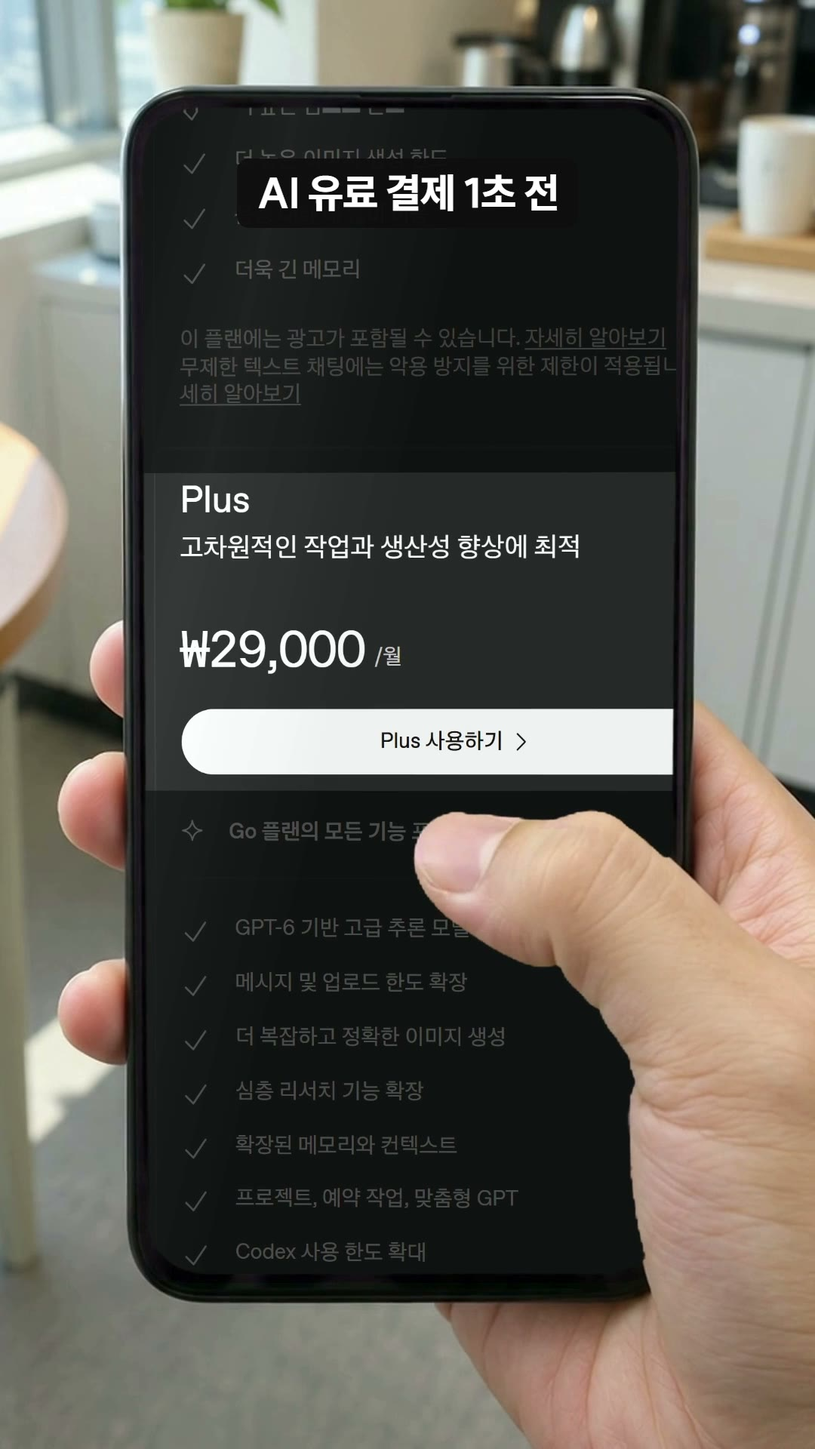
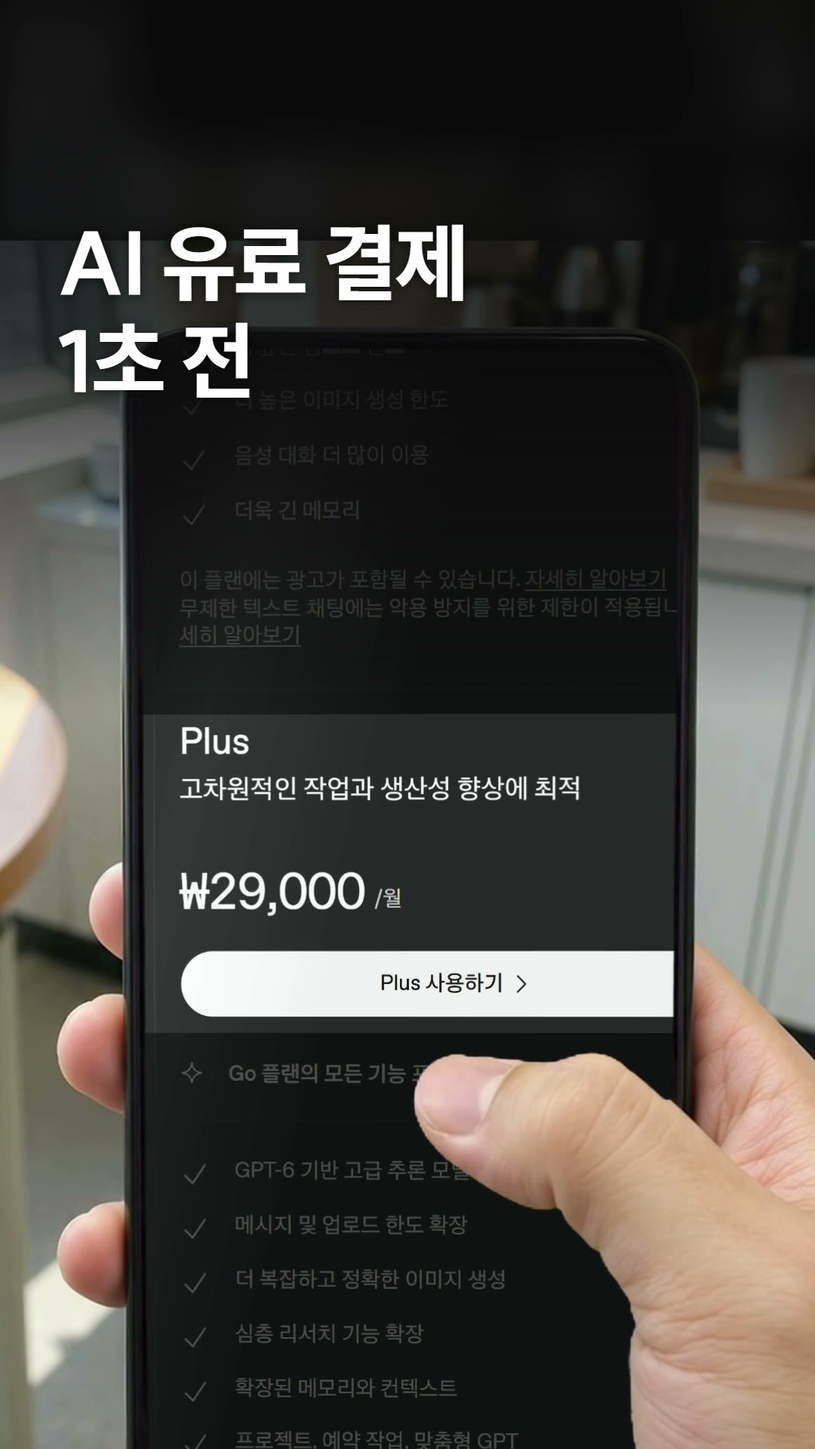
feat(synkbrief B24 v2 · 화면 결 · 11-03 밤): 유호님 「예약되어있던 게시물 … 최악수준 … 누가봐도 ai 슬롭」 → 「지금 새로 적용해서 시안 만들어줄래? 제작까지 해서 오늘 업로드까지」
같은 말 · 소리 · 판 조각에 겉만 다시 입힘(FilmV2.tsx · 판들_v2.py): 번호 동그라미 · 노란 메모 · 초록 띠 · 빨간 상자 · 꼬리표 · 말풍선 · 판 안 동그라미 · 형광을 빼고 원래 장면 그대로 + 위 그늘 큰 글자 · 검정 · 흰 + 버터 한 곳(34만 8천 원) · SUIT 하나. 맹검 미학(Fable 둘) 새 판 4 대 2 · 옛 판 「슬롭」, 이해 시험 v2-3 4 · 4 · 4 통과, 올리기 전 검사 고칠 것 0. 슬롯 11-06(금) 21:00 · 블로그 21:10. synkbrief 장부 「화면 결」 · 제작 절차 · 맹검 미학 관문, 결정 · 트랙

diff --git a/docs/마케팅/synkbrief_요금제질문셋_20261103/remotion/src/FilmV2.tsx b/docs/마케팅/synkbrief_요금제질문셋_20261103/remotion/src/FilmV2.tsx
@@ -1,0 +1,189 @@
+// synkbrief B24 v2(11-03 밤) — 같은 말 · 같은 소리 · 같은 판 조각에 겉만 「화면 결」로 다시 입힌 판.
+// 유호님 11-03 「누가봐도 ai 슬롭」 — 옛 판의 꼬리표 · 번호 동그라미 · 노란 메모 · 초록 띠 · 빨간 상자 · 흰 말풍선을 모두 뺐다.
+// 결은 yuhobuilds 장부 「화면 결」과 같다: 원래 장면 그대로(판을 아래로 내리고 위는 같은 장면을 뒤집어 흐리게) · 위 그늘 위 큰 글자가 곧 말 ·
+// 검정 · 흰 + 버터 한 곳(돈 — 34만 8천 원) · 줄 단위 올림 · 박 위 컷 + 살짝 당김 · SUIT 하나 · 안전선(x 65~920 · y 269~1428) 안 글자 · 마침표 없음.
+import React from 'react';
+import { AbsoluteFill, Audio, Easing, Img, interpolate, OffthreadVideo, Sequence, staticFile, useCurrentFrame } from 'remotion';
+import { KO } from './lib/fonts';
+import PLACE from './vo-place.json';
+import FACE from './face-map.json';
+import { S, TOTAL } from './Film';
+
+const clamp = { extrapolateLeft: 'clamp', extrapolateRight: 'clamp' } as const;
+const EASE_OUT = Easing.bezier(0.16, 1, 0.3, 1);
+const sec = (s: number) => Math.round(s * 30);
+const vo = (id: string) => (PLACE as { id: string; at: number }[]).find((c) => c.id === id)!.at / 30;
+const seq = (from: number, to: number, el: React.ReactNode) => <Sequence from={sec(from)} durationInFrames={sec(to) - sec(from)}>{el}</Sequence>;
+
+const BUTTER = '#F5C445';
+const GREY = '#A3A3A3';
+const X = 74;
+const TOP = 284;
+
+// 판을 D만큼 내리고, 빈 위쪽은 같은 장면 윗부분을 뒤집어 흐리게 채운다. 컷이 들어올 때 1.035배에서 내려앉고, 그 뒤로 아주 천천히 다가간다.
+const Lowered: React.FC<{ d?: number; children: React.ReactNode }> = ({ d = 320, children }) => {
+  const f = useCurrentFrame();
+  const z = interpolate(f, [0, 8], [1.035, 1], { ...clamp, easing: EASE_OUT }) + f * 0.00012;
+  return (
+    <AbsoluteFill style={{ overflow: 'hidden', background: '#0b0b0b' }}>
+      <div style={{ position: 'absolute', inset: 0, transform: `translateY(${d}px) scaleY(-1)`, transformOrigin: '50% 0%', filter: 'blur(26px) brightness(0.55)' }}>{children}</div>
+      <div style={{ position: 'absolute', inset: 0, transform: `translateY(${d}px) scale(${z})`, transformOrigin: '50% 30%' }}>{children}</div>
+    </AbsoluteFill>
+  );
+};
+
+const PlateV: React.FC<{ src: string; dir?: string; start?: number; rate?: number; z?: number; origin?: string }> = ({ src, dir = 'plate', start = 0, rate = 1, z = 1, origin = '540px 560px' }) => (
+  <OffthreadVideo muted src={staticFile(`${dir}/${src}.mp4`)} startFrom={sec(start)} playbackRate={rate} style={{ width: 1080, height: 1920, transformOrigin: origin, transform: `scale(${z})` }} />
+);
+const Plate: React.FC<{ src: string; dir?: string; d?: number }> = ({ src, dir, d }) => <Lowered d={d}><PlateV src={src} dir={dir} /></Lowered>;
+
+// 위 그늘 — 글자 자리만 어둡게
+const Shade: React.FC = () => (
+  <AbsoluteFill style={{ background: 'linear-gradient(to bottom, rgba(10,10,10,0.92) 0px, rgba(10,10,10,0.8) 470px, rgba(10,10,10,0.34) 760px, rgba(10,10,10,0) 940px)' }} />
+);
+
+// 큰 글자가 곧 말 — 줄마다 28px 아래에서 올라오며 나타난다(줄 사이 3프레임). me = 「나」의 말(회색)
+// still = 첫 프레임부터 다 보임(0초 훅 · 표지)
+const T: React.FC<{ lines: React.ReactNode[]; from: number; to: number; me?: boolean; size?: number; meta?: string; below?: React.ReactNode; still?: boolean }> = ({ lines, from, to, me, size = 96, meta, below, still }) => {
+  const f = useCurrentFrame();
+  const a = sec(from), b = sec(to);
+  if (f < a || f >= b) return null;
+  const out = interpolate(f, [b - 3, b], [1, 0], clamp);
+  const up = (k: number) => {
+    const p = still ? 1 : interpolate(f, [a + k * 3, a + k * 3 + 9], [0, 1], { ...clamp, easing: EASE_OUT });
+    return { opacity: p * out, transform: `translateY(${(1 - p) * 28}px)` };
+  };
+  return (
+    <div style={{ position: 'absolute', left: X, width: 846, top: TOP, fontFamily: KO, textShadow: '0 2px 14px rgba(0,0,0,0.55)' }}>
+      {meta ? <div style={{ ...up(0), fontWeight: 600, fontSize: 32, letterSpacing: -0.5, color: GREY, marginBottom: 18 }}>{meta}</div> : null}
+      {lines.map((l, i) => (
+        <div key={i} style={{ ...up(i + (meta ? 1 : 0)), fontWeight: me ? 700 : 800, fontSize: size, lineHeight: 1.16, letterSpacing: -2.6, color: me ? GREY : '#fff', wordBreak: 'keep-all' }}>{l}</div>
+      ))}
+      {below ? <div style={{ ...up(lines.length + 1), marginTop: 34 }}>{below}</div> : null}
+    </div>
+  );
+};
+
+// 실제 화면 조각 — 꼬리표 대신 위에 작은 회색 출처 한 줄
+const Shot: React.FC<{ src: string; w: number; h: number; note: string }> = ({ src, w, h, note }) => (
+  <div>
+    <div style={{ fontFamily: KO, fontWeight: 600, fontSize: 28, color: GREY, marginBottom: 12, letterSpacing: -0.4 }}>{note}</div>
+    <div style={{ borderRadius: 14, overflow: 'hidden', border: '1px solid rgba(255,255,255,0.14)', width: 846 }}>
+      <Img src={staticFile(`img/${src}.png`)} style={{ display: 'block', width: 846, height: Math.round((h * 846) / w) }} />
+    </div>
+  </div>
+);
+
+// 공식 도움말 원문 한 줄 — 흰 바탕 캡처 띠 대신 글로(값 · 글은 원문 그대로)
+const Quote: React.FC<{ text: string; note: string }> = ({ text, note }) => (
+  <div style={{ fontFamily: KO, borderLeft: '3px solid rgba(255,255,255,0.5)', paddingLeft: 22 }}>
+    <div style={{ fontWeight: 600, fontSize: 28, color: GREY, marginBottom: 8, letterSpacing: -0.4 }}>{note}</div>
+    <div style={{ fontWeight: 500, fontSize: 40, color: '#EDEDED', letterSpacing: -0.8, lineHeight: 1.3 }}>{text}</div>
+  </div>
+);
+
+// 줄로만 늘어놓는 표 — 셋을 다 물은 뒤의 물음 · 답, 무료로 되는 것 · 한도 있는 것
+const Rows: React.FC<{ rows: string[][]; wide?: boolean }> = ({ rows, wide }) => (
+  <div style={{ fontFamily: KO }}>
+    {rows.map(([q, a]) => (
+      <div key={q} style={{ display: 'flex', gap: 28, fontSize: 40, lineHeight: 1.6, letterSpacing: -0.8 }}>
+        <span style={{ width: wide ? 360 : 250, fontWeight: 700, color: '#fff' }}>{q}</span>
+        <span style={{ fontWeight: 600, color: '#CFCFCF' }}>{a}</span>
+      </div>
+    ))}
+  </div>
+);
+const Tally: React.FC = () => <Rows rows={[['한도 알림', '아니'], ['파일 · 사진', '가끔'], ['긴 문서', '아니']]} />;
+
+// 작은 표시는 한 규칙 — 30px · 아래 안전선 줄, 알림은 왼쪽 · 브랜드는 오른쪽
+const Small: React.FC<{ text: string; from: number; to: number; right?: boolean }> = ({ text, from, to, right }) => {
+  const f = useCurrentFrame();
+  if (f < sec(from) || f >= sec(to)) return null;
+  const pos = right ? { right: 1080 - 920 } : { left: X };
+  return <div style={{ position: 'absolute', ...pos, top: 1372, fontFamily: KO, fontWeight: 700, fontSize: 30, color: 'rgba(255,255,255,0.86)', letterSpacing: -0.4, textShadow: '0 1px 10px rgba(0,0,0,0.75)' }}>{text}</div>;
+};
+
+const Sfx: React.FC<{ at: number; src: string; v?: number }> = ({ at, src, v = 0.5 }) => (
+  <Sequence from={sec(at)}><Audio src={staticFile(`sfx/${src}.wav`)} volume={v * 0.8} /></Sequence>
+);
+
+// 같은 정면 컷이 이어진다는 맹검 지적(11-03) — 질문마다 거리를 바꾼다(조각 번호 → 키움 · 중심)
+const FRAME: Record<number, [number, string]> = {
+  2: [1.16, '540px 520px'], 3: [1.16, '540px 520px'],
+  7: [1.3, '540px 500px'],
+  8: [1.12, '700px 620px'], 9: [1.12, '700px 620px'],
+};
+const FacePieces: React.FC = () => (
+  <>
+    {(FACE as { src: string; at: number; to: number; start: number; rate: number; z?: number }[]).map((p, i) => (
+      <React.Fragment key={i}>{seq(p.at, p.to, <Lowered><PlateV src={p.src} start={p.start} rate={p.rate} z={FRAME[i]?.[0] ?? p.z} origin={FRAME[i]?.[1]} /></Lowered>)}</React.Fragment>
+    ))}
+  </>
+);
+
+export const FilmV2: React.FC = () => {
+  const f = useCurrentFrame();
+  const bgmV = interpolate(f, [sec(S.q - 0.2), sec(S.q + 0.2), sec(S.slap2) - 1, sec(S.slap2)], [0, 0.16, 0.16, 0], clamp);
+  return (
+    <AbsoluteFill style={{ background: '#0b0b0b' }}>
+      {seq(0, S.faceA, <Plate src="pov_A" />)}
+      <FacePieces />
+      {seq(S.chat, S.laugh, <Plate src="pov_chat" />)}
+      {seq(S.povFile, S.q3, <Plate src="pov_file" dir="plate2" />)}
+      {seq(S.povFree, S.n08, <Plate src="pov_free" dir="plate2" />)}
+      {seq(S.strike, S.creep, <Plate src="pov_strike" dir="plate2" />)}
+      {seq(S.creep, S.faceEnd, <Plate src="pov_end" dir="plate2" />)}
+      {seq(S.lunch, S.total, <Lowered d={220}><PlateV src="lunch" start={0.3} z={1.22} origin="250px 1700px" /></Lowered>)}
+      <Shade />
+
+      <T lines={['AI 유료 결제', '1초 전']} from={0} to={S.slap} size={112} still />
+      <T lines={['잠깐, 그거', '어디 쓰려고?']} from={vo('n01')} to={vo('p01')} />
+      <T lines={['다들 쓴다길래…']} from={vo('p01')} to={S.faceB} me />
+      <T lines={['다들', '뭐에 쓰는데?']} from={S.faceB} to={vo('p06')} />
+      <T lines={['…몰라']} from={vo('p06')} to={S.chat} me />
+      <T lines={['어제 뭐', '물어봤어?']} from={S.chat} to={vo('p07')} />
+      <T lines={['…오늘 점심', '뭐 먹지']} from={vo('p07')} to={S.laugh} me />
+
+      <T meta="질문 1 / 3" lines={['한도 다 썼다는', '알림, 본 적 있어?']} from={S.q} to={vo('p02')} size={88}
+        below={<Quote text="파일 · 사진 · 음성은 쓰는 양에 한도가 있어요" note="ChatGPT 도움말 「한도에 도달하면 ChatGPT에서 알려드립니다」" />} />
+      <T lines={['아니']} from={vo('p02')} to={vo('n04')} me />
+      <T meta="질문 2 / 3" lines={['파일이나 사진,', '매일 올려?']} from={vo('n04')} to={S.povFile} size={88}
+        below={<Shot src="card_file" w={1098} h={144} note="ChatGPT 무료 요금제 · 실제 화면" />} />
+      <T lines={['어… 가끔?']} from={vo('p03')} to={vo('n11')} me />
+      <T lines={['가끔이면 됐고']} from={vo('n11')} to={S.q3} />
+      <T meta="질문 3 / 3" lines={['긴 문서,', '통째로 넣어?']} from={S.q3} to={vo('p04')} size={88} />
+      <T lines={['…아니']} from={vo('p04')} to={S.free} me />
+      <T lines={['그럼 무료로', '충분해']} from={S.free} to={S.povFree} below={<Tally />} />
+      <T lines={['진짜?']} from={vo('p08')} to={vo('n07')} me />
+      <T lines={['챗GPT는 글로만', '묻는 건,', '무료도 무제한이야']} from={vo('n07')} to={S.n08} size={84}
+        below={<Rows rows={[['글로 묻기', '무제한'], ['파일 · 사진 · 음성', '한도 있음']]} wide />} />
+      <T lines={['하나라도', "'예'면,"]} from={S.n08} to={S.pay2} />
+      <T lines={['그때 결제해']} from={S.pay2} to={S.strike} />
+      <T meta="₩29,000 × 12달" lines={['1년이면', <span style={{ color: BUTTER }}>34만 8천 원</span>]} from={S.strike + 0.35} to={S.creep + 0.3} size={112} />
+      <T lines={['그래도 한 달만…']} from={vo('p05')} to={S.slap2} me />
+      <T lines={['그 돈으로', '점심이나 사']} from={S.faceEnd} to={S.total} size={104} />
+
+      <Small text="AI로 만든 재연이에요" from={S.faceA} to={S.faceB} />
+      <Small text="SYNK 브리핑" from={S.total - 2.6} to={S.total} right />
+
+      {/* 소리 — 옛 판과 같다 */}
+      <Audio src={staticFile('sfx/room.wav')} volume={(fr: number) => 0.35 * interpolate(fr, [0, 6, sec(S.q - 0.1), sec(S.q + 0.2)], [0.5, 1, 1, 0], clamp)} />
+      <Sfx at={0.05} src="tick" v={0.25} />
+      <Sfx at={0.55} src="tick" v={0.25} />
+      <Sfx at={1.05} src="tick" v={0.25} />
+      <Sequence from={sec(S.q - 0.2)}><Audio src={staticFile('bgm.wav')} volume={() => bgmV * 0.8} /></Sequence>
+      <Sequence from={sec(S.lunch)}><Audio src={staticFile('plate/lunch_a.wav')} startFrom={sec(0.3)} volume={0.9} /></Sequence>
+      <Sequence from={sec(S.lunch)}><Audio src={staticFile('bgm.wav')} startFrom={sec(19)} volume={(fr: number) => 0.13 * interpolate(fr, [0, 4, 36, 44], [0, 1, 1, 0], clamp)} /></Sequence>
+      <Audio src={staticFile('plate/V1_a.wav')} startFrom={sec(1.1)} endAt={sec(5.46)} volume={0.9} />
+      <Sequence from={sec(S.slap2 - 2.01)}><Audio src={staticFile('plate/V1_a.wav')} startFrom={sec(0.55)} endAt={sec(3.2)} volume={0.9} /></Sequence>
+      <Sfx at={S.slap - 0.01} src="hand" v={0.45} />
+      <Sfx at={S.slap2 - 0.01} src="hand" v={0.55} />
+      {(PLACE as { id: string; at: number }[]).map((c) => (
+        <Sequence key={c.id} from={c.at}><Audio src={staticFile(`vo/${c.id}.wav`)} volume={0.8} /></Sequence>
+      ))}
+      <Sfx at={S.free} src="tok" v={0.35} />
+    </AbsoluteFill>
+  );
+};
+
+export { TOTAL };

diff --git a/docs/마케팅/synkbrief_요금제질문셋_20261103/remotion/src/Root.tsx b/docs/마케팅/synkbrief_요금제질문셋_20261103/remotion/src/Root.tsx
@@ -1,10 +1,13 @@
 import { Composition } from 'remotion';
 import './lib/fonts';
 import { Film, TOTAL } from './Film';
+import { FilmV2 } from './FilmV2';
 
 export const RemotionRoot: React.FC = () => (
   <>
     {/* 본편 하나(인스타 · 유튜브 · 틱톡 같은 영상 — 끝 말이 캡션 · DM · 고정 댓글을 가리키지 않는다) */}
     <Composition id="b24" component={Film} durationInFrames={TOTAL} fps={30} width={1080} height={1920} />
+    {/* v2(11-03 밤 · 화면 결) — 같은 말 · 소리, 겉만 다시 */}
+    <Composition id="b24v2" component={FilmV2} durationInFrames={TOTAL} fps={30} width={1080} height={1920} />
   </>
 );

diff --git a/docs/마케팅/synkbrief_요금제질문셋_20261103/합성/판들_v2.py b/docs/마케팅/synkbrief_요금제질문셋_20261103/합성/판들_v2.py
@@ -1,0 +1,34 @@
+# B24 v2(화면 결 · 11-03 밤) — 판 안에 굽던 빨간 동그라미 · 노랑/초록 형광을 뺀다. 짚는 줄은 그 줄 밖을 어둡게 누르는 것으로만 보인다.
+# 판들.py와 같은 화면 · 같은 V1 조각 · 같은 줌이고, 표시만 다르다. 나가는 곳은 remotion/public/plate2.
+import sys
+sys.path.insert(0, '합성')
+from 판굽기 import 굽기, 읽기
+import numpy as np
+
+
+def 어둡게(im, y0, y1, 위까지=True, k=0.42):
+    out = im.astype(np.float32).copy()
+    if 위까지: out[:y0] *= k
+    out[y1:] *= k
+    return out.astype(np.uint8)
+
+
+폴더 = 'remotion/public/plate2'
+플러스 = 어둡게(읽기('화면/챗GPT_Plus.png')[192:192 + 2237, 40:40 + 1032], 690, 1300, k=0.28)
+파일 = 읽기('화면/챗GPT_표_파일.png')[283:283 + 2071, 90:90 + 955]
+무료 = 읽기('화면/챗GPT_Free목록.png')[192:192 + 1645, 60:60 + 759]
+파일어둠 = 어둡게(파일, 683 - 58, 683 + 58, k=0.22)
+무료어둠 = 어둡게(무료, 531 - 46, 531 + 46, 위까지=False, k=0.3)
+# ₩29,000 줄만 남기고 더 누른다(동그라미 대신)
+값만 = 어둡게(읽기('화면/챗GPT_Plus.png')[192:192 + 2237, 40:40 + 1032], 930, 1130, k=0.5)  # 맹검 지적(「폰이 탁한 검정 덩어리」)으로 0.2 → 0.5
+
+가까이 = lambda t: (1.22 + 0.006 * t, 522, 830)
+넓게 = lambda t: (1.12, 522, 985)
+쉼 = [(8.7, 9.9), (9.9, 8.7), (8.7, 9.9)]
+이름들 = sys.argv[1:]
+고르기 = lambda 이름: not 이름들 or 이름 in 이름들
+
+if 고르기('pov_file'): 굽기('pov_file', [(8.7, 9.9), (9.9, 9.3)], lambda t: 파일어둠, 줌=가까이, 폴더=폴더)
+if 고르기('pov_free'): 굽기('pov_free', 쉼, lambda t: 무료어둠, 줌=가까이, 폴더=폴더)
+if 고르기('pov_strike'): 굽기('pov_strike', [(8.7, 9.9), (9.9, 9.3)], lambda t: 값만, 줌=lambda t: (1.45 + 0.03 * t, 460, 1095), 폴더=폴더)
+if 고르기('pov_end'): 굽기('pov_end', [(0.55, 2.70)], lambda t: 플러스, 줌=넓게, 폴더=폴더)

diff --git a/docs/마케팅/기획장부/synkbrief.md b/docs/마케팅/기획장부/synkbrief.md
@@ -10,6 +10,7 @@
 - **화면:** 실제 화면 녹화와 실제 전후 결과(메일 · 계정 · 남의 이름은 가림). 글자 카드만으로 만들지 않는다. 유호님 계정의 설정을 바꿔야 보이는 화면(보안 · PIN 등)은 녹화하지 않는다.
 - **사실:** 공식 도움말 · 요금은 원문을 다시 열어 확인하고 읽은 날을 남긴다. 약관에 걸릴 길(다계정 우회 등)은 권하지 않는다.
 - **편 꼴(10-27, 10-28 고침):** [제작 절차 「synkbrief · yuhobuilds 편」](제작절차.md) 넷 — 결과 화면 먼저 · 영상엔 결과만(설명 · 설정 경로 · 주의는 캡션 · 고정 댓글) · 실제 화면은 한 컷 그대로 보인 뒤 크게 다시 짜기 · 검증된 틀 주 1편. 모든 편이 청금석 파란 카드 · 같은 배경음 · 끝 「여러분은~? / 요청문은 캡션에」였고 인스타 조회가 110~140에 묶였다(10-28 점검) — 무대 · 배경음 · 끝 카드는 지난 두 편과 다르게 고른다.
+- <a id="screen-look-20261103"></a>**화면 결(11-03 유호님 — 예약돼 있던 B23 · B24를 보시고 「최악 수준 · 누가 봐도 AI 슬롭」 → 「지금 새로 적용해서」):** 두 편 다 실제 AI 화면 위에 빨간 꼬리표 · 노랑/초록 형광 · 취소선 · X 격자 · 번호 동그라미 · 노란 메모 · 초록 띠 · 빨간 상자 · 흰 말풍선을 겹친 카드뉴스 틀이었다. synkbrief도 [yuhobuilds 「화면 결」](yuhobuilds.md#presenter-look-20261103)과 같은 결로 만든다 — ① 원래 장면 그대로: 판(실제 화면 · 재연 영상)을 아래로 내리고 빈 위쪽은 같은 장면 윗부분을 뒤집어 흐리게 채운 뒤 위 그늘 ② 검정 · 흰 + 버터 #F5C445 한 곳(그 편에서 가장 큰 숫자 · 낱말 하나) ③ 큰 글자가 곧 말(왼쪽 정렬 x 74 · y 284부터, 84~112px, 줄 단위 28px 올림 + 불투명도), 두 사람 말은 흰 · 회색으로만 가른다 ④ 박 위 컷 + 들어올 때 1.035배에서 내려앉음 · 판은 아주 천천히 다가감 ⑤ SUIT 하나 ⑥ 실제 화면은 꼬리표 대신 위에 작은 회색 출처 한 줄, 짚는 줄은 형광 · 동그라미 대신 그 줄 밖을 어둡게 누름 ⑦ 화면 글자에 마침표 없음 · 안전선 안. **빼는 것:** 색 꼬리표 · 스티커 · 번호 동그라미 · 색 띠 · 색 상자 · X 격자 · 말풍선 · 둘 넘는 색. **관문에 더함:** 보이거나 걸기 전 맹검 미학 심사(새 판 vs 비교 판 장면 묶음을 맥락 없는 Fable 둘에게 순서를 바꿔 「어느 쪽이 더 세련됐나 · 어디가 싸 보이나 · AI 슬롭으로 보이나」) — 새 판이 둘 모두에게 지거나 「슬롭」이 하나라도 나오면 고쳐서 다시. 첫 적용: B24 v2(11-03 밤).
 - **오마주 — 우리 색(10-28, [제작 절차 「오마주」](제작절차.md#homage)):** 원본의 뼈대(훅 자리 · 칸 수 · 박자 · 반전 · 끝 장치)는 지키고, 화면은 우리 실제 AI 화면과 실제 결과(원본의 결과 칸 자리에), 목소리는 범수, 브랜드 표시는 「SYNK 브리핑」 이름표와 색 한 점만 바꾼다. 무대 · 배경음 · 끝은 원본을 따르니 청금석 파란 카드 · 같은 배경음 · 같은 끝 문구를 되풀이하지 않는다. 남는 것은 따라 할 AI 팁 하나(복붙문은 캡션 · 고정 댓글). 같은 분야 원본은 synkbrief 시드의 튄 편(예: 라이프해커 자청 「클로드코드 사용법」 86만 · ×99), 형식만 원본은 직장 · 자영업 공감 콩트 · 「이렇게 하지 마세요」 꼴처럼 크게 터진 다른 분야 편. 지어낸 화면이 있어야 되는 원본은 고르지 않는다. 따라 할 팁 편은 이 계정 몫이고, 유호님 실화로 짓는 편은 yuhobuilds 몫이다(10-28).
 - **검증된 틀(10-28 — 19:30 스캔이 [게시 성과](../게시성과.md) 72시간으로 고친다, 규칙은 [제작 절차](제작절차.md#evidence-and-skeleton)):** **「질문 셋으로 하나 고르기」(10-28 19:30 스캔이 올림)** — `synkbrief_AI구독하나고르기_20261021` 「AI 유료 구독, 하나만 고른다면 — 질문 셋」(흔한 오해 깨기 + 「나한테 해당되나?」 질문 셋, 유튜브 훅은 질문)이 유튜브 72시간 1,785회 · 평소의 2.1배 · 좋아요 2 · 공유 1 · 본 비율 42.1%(이 계정 최고)라 기준(1.5배 + 좋아요 · 공유 1 이상)을 넘었다. 인스타는 72시간 110회 · 1.0배 · 저장 · 공유 0이라 **유튜브 판으로만 검증**된 틀이다 — 그 편은 48.8초였으니 지금 편 꼴(20~30초 · 결과와 따라 할 것 하나)로 줄여 쓰고, 다음 편 72시간이 1.5배 밑이면 내린다. 10-29 스캔: 그 편 유튜브 2.4천 · 평소의 2.0배로 남긴다 — 이 틀로 만든 다음 편 B16은 10-29 이해 시험(재미 2)에서 버려져 올라가지 않았다. 10-30 스캔: 그 편 2.5천 · 2.3배로 남긴다 — B16은 되살려 10-31 칸에 승인 대기(관문 못 넘음), 그 72시간(11-03 21시께)이 1.5배 밑이면 내린다. 10-31 스캔: 그 편 유튜브 2.7천 · 채널 중앙의 2.7배(게시 성과 7일 2,298 · 같은 나이로 견줄 앞선 편 3편이라 평소 대비 못 잼)로 남긴다 — B16은 10-31 21시 게시, 72시간 숫자 전. 11-01 스캔: 그대로 — B16 유튜브는 게시 하루 안쪽 420회 · 채널 중앙(최근 10편 803)의 0.5배로 출발이 약하다, 72시간(11-03 21시께)이 1.5배 밑이면 내린다. 11-02 스캔: 그대로 — B16 24시간 판정은 유튜브 420회 · 같은 나이 평소의 0.4배 · 좋아요 1, 인스타 157회 · 1.4배 · 공유 1 · 저장 1(상위 25%)이고 72시간은 11-03 21시께다. 같은 주제의 남의 편 온크트리 「AI 유료 요금제, 어떤 기준으로 고를까」(7Tyo1JTY2BE · 11-01 · 1.8만 · 평소의 7.1배 · 댓글 85가 거의 「참고하고 싶습니다」)가 새로 튀었다 — 이 틀의 첫 편 주제에 수요가 아직 있다. 11-03 스캔: 그대로 — B16 72시간(11-03 21시께)은 이 스캔 뒤라 다음 스캔이 본다. 온크트리 편은 2.9만 · 평소의 9.2배 · 댓글 123으로 더 자랐고, 같은 주제의 B24는 11-03 유호님이 다시 만들려고 게시를 취소했다. 오마주로 만든 편도 아직 올라간 것이 없다(B2 · B15 버림). B1 `synkbrief_AI질문전후_20261024` 「이렇게 묻지 마세요 → 이렇게」(같은 질문을 한 줄 없이 / 한 줄 더해 물은 전후)는 72시간 인스타 1.1배 · 유튜브 1.3배 · 좋아요 0이라 내렸다. 「한 줄」 전후는 yuhobuilds와 같은 뼈대라 두 브랜드가 같은 주에 함께 쓰지 않는다. 이 브랜드는 직장인 · 자영업자가 일에 쓰는 법(고르는 기준 · 확인하는 법 · 실제 결과 비교)을 먼저 고른다 — 수요 스캔 시드 채널도 10-28에 yuhobuilds와 나눴다(만들기 · 코딩 채널은 yuhobuilds 쪽).
 - **무엇으로 이기나(10-29):** B2(실제 AI 답 화면 둘을 늘어놓고 「제가 안 한 말」을 짚은 편)를 유호님이 「시청자입장에서 보면 그냥 ai슬롭 … 여운도없고 스토리텔링도없고 임펙트도없고 볼 이유가 없어」로 버리셨다. 이해 시험(답 1 · 4점)은 넘을 뻔했지만 놓친 자리다. 정보 · 오마주 뼈대만으로는 안 되니 기획 첫 줄에 「이 편은 무엇으로 이기나」를 정한다 — ① 이야기(기승전결이 분명해 여운이 남는다) ② 눈에 남는 한 장면의 임팩트. 둘 다 아니면 만들지 않는다(같은 날 PULSE 광고 기준과 같다 — [결정](../../_ops/결정.md) 10-29 · [AI 광고영상 제작 규칙](../제작양식/AI광고영상_제작규칙.md)). AI 답 글 화면을 비교로 늘어놓는 꼴은 고르지 않는다.
@@ -131,7 +132,7 @@
 
 | 번호 | 기획 | 갈래 | 상태 | 편 폴더 | 근거 · 첫 2초 · 댓글 놀이 · 조건 |
 |---|---|---|---|---|---|
-| B24 | AI 유료 요금제, 결제 전에 질문 셋 — 다 「아니요」면 무료로 충분 | 한 장면 먼저 · 전환 · 근거 B | **기존 판 게시 보류(11-03 유호님 요청).** 영상과 블로그 모두 재제작 전까지 다시 예약하지 않는다. 제작 당시 판정은 **완성(관문 못 넘음 — 이해 시험 ④ 세 시험관이 「한도」를 같이 짚음)**(11-03 07시 회차 · 「한 장면 먼저」 일곱째 편 · 제작 절차 「매일 한 편」 2로 가장 나은 판을 올림 — 장면 심사 둘째 판 통과(멈춤 · 볼 이유 3) · 이해 시험 마지막 측정 v9: 답 1 셋 다 맞음 · 이해 4 · 4 · 4 · 재미 3 · 3 · 3 · 끝까지 둘(GPT 21.9초, 결론 뒤) · 저장 1 · 공유 2 · 달라 보임 셋 · 볼 이유 일곱 번 다 이야기 · 3 · 아님 · 그 뒤 꼬리표를 키우고 말을 고친 최종판은 다시 재지 않음 · 질문 셋 목록 대신 **누르기 직전 엄지를 동료 손바닥이 막는 사건 + 대화**로 지음 · 실제 ChatGPT 요금 화면(₩29,000 · ₩0)을 AI 손 영상의 초록 화면에 끼움 · 실제 임시 채팅 「오늘 점심 뭐 먹지?」(답 1. 제육볶음 정식)가 끝 말 「그 돈으로 점심이나 사.」의 복선 · 28.8초 · 나란히 맞음(「다르게」 셋) · 올리기 전 검사 고칠 것 0 · Fable 사실 검수 두 번 반영 · 게시 묶음 `게시/`(인스타 · 유튜브 · 틱톡 같은 영상 + 네이버 블로그) · 슬롯 **11-07(토) 21:00** · 블로그 21:10 · 작업실등록 · Flow Omni 36크레딧 · [기록](../synkbrief_요금제질문셋_20261103/기획.md) 「판정」) · 앞: 제작 중(11-03 07시 회차 · 고름 · 두 번 연속 1위 · 다시 살릴 줄 없음, 검증된 틀 「질문 셋」은 B16 볼 이유 미달로 그 틀로는 안 씀 → 제작 절차 0 ③ 답 없음 — 순위 1 · 슬롯 **11-07(토) 21:00**) · 앞: 순위 1(11-02 — 조건부: 핵심 칸의 ☒를 시험관이 「해당함」으로 읽어 뜻이 거꾸로 → 빈 ☐ 옆 손글씨 「아니요」 셋으로 · 「하나라도 '예'면 그때 결제」 한 줄을 넣어 판정이 아니라 고르기로 · 첫 2초는 흐린 가짜 화면이 아니라 실제 결제 화면을 1인칭 폰으로(빵집 사장 재연은 빼기) · 「한 장면 먼저」로 엄지 멈춤 → 「아니요」 셋 → 「무료로 충분」 3~6초를 먼저 만들어 장면 심사) | `docs/마케팅/synkbrief_요금제질문셋_20261103` | **무엇으로 이기나:** 한 장면 — 결제 버튼 위에서 멈춘 엄지 → 질문 셋에 「아니요」가 차례로 → 「무료로 충분」. 결과 칸은 실제 무료 한도 안내 화면. **원본** https://www.youtube.com/shorts/7Tyo1JTY2BE · 같은분야 · 온크트리 「AI 유료 요금제, 어떤 기준으로 고를까」 1.8만 · ×7.1 · 11-01 · 25초 · 댓글 85. **근거 B:** Data API로 읽은 위 30개가 거의 다 「참고하고 싶습니다 · 저도 받고 싶어요」(자료를 바람 — 키워드 댓글로 고르는 표를 건네는 전환). 검증된 틀 「질문 셋으로 하나 고르기」의 첫 편(10-21 `synkbrief_AI구독하나고르기_20261021`)과 주제가 같다 — 질문 셋 · 끝 줄은 새로 쓴다. **한 문장** 「한도 알림 · 파일 올리기 · 긴 문서, 셋 다 아니면 무료로 충분」. 시안 `…/2026-11-02/시안/B24_첫2초.jpg`(빵집 사장이 결제 버튼 위에서 망설임) · `…/B24_핵심칸.jpg`(포스트잇 질문 셋 + 「무료로 충분」) — haiku 「이런 경험이 있다면 무료로 충분」(**뜻이 거꾸로 읽힘**). **먼저:** 결과 화면 — 무료 한도 안내 실제 화면을 찍는다(안 나오면 예비(결과 화면이 안 나옴)), 요금제 이름 · 값은 영상에 넣지 않고 캡션에 날짜와 함께. **함정:** 특정 서비스 하나를 깎거나 권하지 않는다 · 30초 안 |
+| B24 | AI 유료 요금제, 결제 전에 질문 셋 — 다 「아니요」면 무료로 충분 | 한 장면 먼저 · 전환 · 근거 B | **완성 — v2 화면 결(11-03 밤 재제작 · 유호님 「지금 새로 적용해서 … 오늘 업로드까지」, 슬롯 11-06(금) 21:00 · 블로그 21:10)** — 맹검 미학 둘 다 새 판(4 대 2, 옛 판 「슬롭」) · 이해 시험 v2-3 4 · 4 · 4 통과 · 올리기 전 검사 고칠 것 0, [기록](../synkbrief_요금제질문셋_20261103/기획.md) 「v2」. 옛 판(v1)은 11-03 예약 취소 · `게시/옛판_v1/`에 보관. 제작 당시 판정은 **완성(관문 못 넘음 — 이해 시험 ④ 세 시험관이 「한도」를 같이 짚음)**(11-03 07시 회차 · 「한 장면 먼저」 일곱째 편 · 제작 절차 「매일 한 편」 2로 가장 나은 판을 올림 — 장면 심사 둘째 판 통과(멈춤 · 볼 이유 3) · 이해 시험 마지막 측정 v9: 답 1 셋 다 맞음 · 이해 4 · 4 · 4 · 재미 3 · 3 · 3 · 끝까지 둘(GPT 21.9초, 결론 뒤) · 저장 1 · 공유 2 · 달라 보임 셋 · 볼 이유 일곱 번 다 이야기 · 3 · 아님 · 그 뒤 꼬리표를 키우고 말을 고친 최종판은 다시 재지 않음 · 질문 셋 목록 대신 **누르기 직전 엄지를 동료 손바닥이 막는 사건 + 대화**로 지음 · 실제 ChatGPT 요금 화면(₩29,000 · ₩0)을 AI 손 영상의 초록 화면에 끼움 · 실제 임시 채팅 「오늘 점심 뭐 먹지?」(답 1. 제육볶음 정식)가 끝 말 「그 돈으로 점심이나 사.」의 복선 · 28.8초 · 나란히 맞음(「다르게」 셋) · 올리기 전 검사 고칠 것 0 · Fable 사실 검수 두 번 반영 · 게시 묶음 `게시/`(인스타 · 유튜브 · 틱톡 같은 영상 + 네이버 블로그) · 슬롯 **11-07(토) 21:00** · 블로그 21:10 · 작업실등록 · Flow Omni 36크레딧 · [기록](../synkbrief_요금제질문셋_20261103/기획.md) 「판정」) · 앞: 제작 중(11-03 07시 회차 · 고름 · 두 번 연속 1위 · 다시 살릴 줄 없음, 검증된 틀 「질문 셋」은 B16 볼 이유 미달로 그 틀로는 안 씀 → 제작 절차 0 ③ 답 없음 — 순위 1 · 슬롯 **11-07(토) 21:00**) · 앞: 순위 1(11-02 — 조건부: 핵심 칸의 ☒를 시험관이 「해당함」으로 읽어 뜻이 거꾸로 → 빈 ☐ 옆 손글씨 「아니요」 셋으로 · 「하나라도 '예'면 그때 결제」 한 줄을 넣어 판정이 아니라 고르기로 · 첫 2초는 흐린 가짜 화면이 아니라 실제 결제 화면을 1인칭 폰으로(빵집 사장 재연은 빼기) · 「한 장면 먼저」로 엄지 멈춤 → 「아니요」 셋 → 「무료로 충분」 3~6초를 먼저 만들어 장면 심사) | `docs/마케팅/synkbrief_요금제질문셋_20261103` | **무엇으로 이기나:** 한 장면 — 결제 버튼 위에서 멈춘 엄지 → 질문 셋에 「아니요」가 차례로 → 「무료로 충분」. 결과 칸은 실제 무료 한도 안내 화면. **원본** https://www.youtube.com/shorts/7Tyo1JTY2BE · 같은분야 · 온크트리 「AI 유료 요금제, 어떤 기준으로 고를까」 1.8만 · ×7.1 · 11-01 · 25초 · 댓글 85. **근거 B:** Data API로 읽은 위 30개가 거의 다 「참고하고 싶습니다 · 저도 받고 싶어요」(자료를 바람 — 키워드 댓글로 고르는 표를 건네는 전환). 검증된 틀 「질문 셋으로 하나 고르기」의 첫 편(10-21 `synkbrief_AI구독하나고르기_20261021`)과 주제가 같다 — 질문 셋 · 끝 줄은 새로 쓴다. **한 문장** 「한도 알림 · 파일 올리기 · 긴 문서, 셋 다 아니면 무료로 충분」. 시안 `…/2026-11-02/시안/B24_첫2초.jpg`(빵집 사장이 결제 버튼 위에서 망설임) · `…/B24_핵심칸.jpg`(포스트잇 질문 셋 + 「무료로 충분」) — haiku 「이런 경험이 있다면 무료로 충분」(**뜻이 거꾸로 읽힘**). **먼저:** 결과 화면 — 무료 한도 안내 실제 화면을 찍는다(안 나오면 예비(결과 화면이 안 나옴)), 요금제 이름 · 값은 영상에 넣지 않고 캡션에 날짜와 함께. **함정:** 특정 서비스 하나를 깎거나 권하지 않는다 · 30초 안 |
 | B25 | 구글에 뜬 내 AI 대화 — 공유 링크 지우기 | — | 예비(근거 C — 11-02) | | 지후 「구글에 뜬 내 AI 대화 찾기 & 방지법」 4OywzjWKMOk(5.1천 · ×3.6 · 10-30 · 37초) — 댓글은 채널 주인 링크 하나라 좋아한 까닭이 없다. 지금도 공유 대화가 검색에 뜨는지 사실 확인 전 |
 
 ## 2026-11-03 · 판정편 시험(유호님 11-03 「가. 판정편 시험」)

diff --git a/docs/_ops/결정.md b/docs/_ops/결정.md
@@ -7,6 +7,7 @@
 <!-- 결정표 시작 · tools/결정.js 가 이 구간만 읽고 쓴다 -->
 | 날짜 | 성격 | 결정 | 근거 |
 |---|---|---|---|
+| 2026-11-03 | 확정 | [synkbrief 화면 결 · 맹검 미학 관문 · 유호님] synkbrief도 yuhobuilds 「화면 결」과 같은 결로 만든다 — 색 꼬리표 · 스티커 · 번호 동그라미 · 색 띠 · 색 상자 · 말풍선 없이 원래 장면 그대로 · 위 그늘 위 큰 글자가 곧 말 · 검정 · 흰 + 버터 한 곳 · SUIT 하나. 보이거나 걸기 전 맹검 미학 심사(새 판 vs 비교 판, Fable 둘 순서 바꿈)를 넘긴다 — 이해 시험 · 장면 심사 · 사실 검수 · 올리기 전 검사는 「싸 보이나」를 보지 않는다. 첫 적용 B24 v2를 11-06(금) 21:00 칸에 건다(B23 · B24 옛 판은 같은 날 취소). [장부 「화면 결」](../마케팅/기획장부/synkbrief.md#screen-look-20261103) · [제작 절차](../마케팅/기획장부/제작절차.md) | 유호님 11-03 「예약되어있던 게시물 … 최악수준 … 누가봐도 ai 슬롭」 · 「지금 새로 적용해서 시안 만들어줄래? 제작까지 해서 오늘 업로드까지 … 1일 1업로드에 차질이 있으면 안돼」. 맹검: 둘 다 새 판 4 대 2 · 옛 판 「슬롭 예」 · 피드 멈춤 대 넘김, 이해 시험 v2-3 4 · 4 · 4 — [B24 기록](../마케팅/synkbrief_요금제질문셋_20261103/기획.md) 「v2」 |
 | 2026-11-03 | 확정 | [WORLD 첫 실행 · 꿈이 생기는 순간 = 거울 앞 물건 · 내레이션 SUIT 옅은 금색 · 유호님 「추천안대로 만들어」] 「어떤 꿈이었나요?」 카드로 묻지 않는다. 내 방 휴대폰 속 영상이 무대에서 드라마 한 장면(한강 · 우산)으로 넘어가고, 휴대폰을 끈 밤 거울 앞에서 연습화와 이어폰(아이돌) · 밑줄 친 대본(배우) 중 하나를 눌러 꿈을 정한다(색종이 없이 그 물건에만 불빛). 책상에 유학을 가는 이유 한 줄, 엄마 쪽지는 처음 배운 글씨의 짧은 세 문장(「도착하면 전화해. / 밥 잘 먹어. / 사랑해.」)으로 기내 「도착」과 잇고, 정문은 「기숙사 들어가는 날」. 내레이션(속마음 · 회상)은 SUIT · 옅은 금색 #F3DFA6, 소리 내어 한 말은 흰 대화창. | 11-03 아르곤 스토리 검수가 짚은 것(꿈이 갑자기 · 배우 씨앗 없음 · 꿈에서 대학으로 건너뜀 · 매끄러운 쪽지와 「도착」 모순 · 정문에 서 있는 이유 없음)과 9판 페이지의 꿈 세 안 · 글꼴 네 판 비교(명조는 앱에 안 넣은 글꼴이라 폰마다 다름, 진한 노랑은 예능 자막처럼 읽힘)에서 유호님이 추천안을 고름. 10판에 반영, Fable 검수 P1 없음. [트랙](트랙.md) 「유학생 + 꿈 선택」 줄 |
 | 2026-11-03 | 확정 | [제2의 나 · 사진 아바타 자체 GPU로 옮기기 = 옷장 편집 먼저 · 기준 사진은 API · Claude 판단(기술 설계)] 11-03 오픈 편집 모델 견주기(상업 사용 Apache 2.0 셋 — Qwen-Image-Edit-2511 · FireRed-Image-Edit-1.1 · LongCat-Image-Edit과 8스텝 빠른 판) 결과, 기준 사진(올린 사진 → 19~20살 웃는 기준)은 API(OpenAI)에 둔다 — 실제 사람에서 GPT만 「분명」이었고 30~50대 나이 판은 셋 다 성별이 바뀌거나 나이를 안 내렸다. 옷장 편집은 LongCat-Image-Edit-Turbo가 GPT와 같은 급이라 OpenAI 월 크레딧을 넘는 규모가 되면 옷장부터 회사 GPU로 옮긴다(카탈로그를 조각 20에 입혀 90% 통과 · 우리 입력 · 출력 거르기 · 한 장 시간 확인 뒤, 금액은 그때 유호님께). 기준 사진은 새 상업 사용 모델이 같은 18장 + 동의한 실제 사람 서넛에서 나이 셋 성별 유지 · 20대 초반 · Fable P0 · P1 없음 · 실제 사람 같은 사람을 넘을 때 다시 견준다. 얼굴 인코더 길(InstantID · PuLID · PhotoMaker — InsightFace 모델 비상업) · FLUX 3 Klein(매출 상한 · 생체 처리 금지) · Krea 2(건별 상업 계약) · Qwen-Image-2.1(연구용) · Hunyuan(한국 제외)은 뺀다. | experiences/drama/qa/제2의나-20261102/오픈모델/README.md — 우리 비공개 ZeroGPU Space 넷에서 같은 입력 · 지시문 · SFace · Fable 눈가림. 기준 유호님 GPT 0.618 대 오픈 0.35~0.48(Qwen은 Fable 「아님」), 나이 강+는 Qwen 계열에서 여성 넷 모두 남성 · LongCat과 빠른 판은 대부분 나이 그대로, 옷장 Fable 평균 순위 Turbo 2.17 · GPT 2.25. 라이선스는 원문 확인. 시범은 무료 크레딧 안(같은 날 결정)이라 지금 옮길 값 이득 없음. |
 | 2026-11-03 | 확정 | [콘텐츠 검수 · 교원 검수자 섭외를 개발 방향에서 뺌 · 유호님] 사람 한국어 교원 검수자는 섭외하지 않는다. 검수는 Claude · GPT · Gemini AI 검수로 하고(문항 2중 검수 Opus · 아르곤, 원고 Fable · 아르곤, 백엔드 GPT) 그 통과를 검수 통과로 적는다. 「교원 검수 전」을 남은 일 · 한계로 쓰지 않는다. 11-02 「TOPIK 3→4급 뼈대」 행의 ④(교원 검수자 섭외 다시 올림)를 바꾼다 — 10-20 「교원 검수를 AI로」를 되살린 것이었다. 교원 검수 시트와 도구는 기록으로 둔다. | 유호님 11-03 「한국어 교원 검수자 섭외 이거는 앞으로 개발방향에서 빼 … 클로드랑 gpt gemini가 나에게 검수자이고 이 방식 마음에 들어」 |

diff --git a/docs/마케팅/synkbrief_요금제질문셋_20261103/기획.md b/docs/마케팅/synkbrief_요금제질문셋_20261103/기획.md
@@ -1,9 +1,19 @@
-기획 · synkbrief · @synkbrief(인스타 · 유튜브 · 틱톡) + SHIFT 네이버 블로그 · B24 · 2026-11-03 · 슬롯 2026-11-07(토) 21:00
+기획 · synkbrief · @synkbrief(인스타 · 유튜브 · 틱톡) + SHIFT 네이버 블로그 · B24 · 2026-11-03 · 슬롯 2026-11-06(금) 21:00(11-03 밤 v2로 옮김 — 처음은 11-07(토))
 
 > 제작 절차 [「한 장면 먼저」](../기획장부/제작절차.md#one-scene) 일곱째 편(11-03 07시 회차). 고름 · 두 번 연속 1위 · 다시 살릴 줄이 없고(B10 「먼저:」 안 참), 검증된 틀 「질문 셋」은 B16 볼 이유 미달로 그 틀로는 쓰지 않아, 11-02 스캔 순위 1 B24(근거 B · 조건부)를 「답 없음 — 순위 1」로 골랐다.
 > **장부 줄의 첫 기획과 바뀐 것:** 장부 줄의 핵심 칸은 포스트잇 체크 칸이었고 관문이 「재미는 없고 유용함으로 가는 편 — 멈춘 엄지가 유일한 긴장」이라 했다. 그래서 질문 셋을 목록으로 늘어놓지 않고 **누르기 직전의 엄지를 옆 사람 손바닥이 탁 막는 사건**에서 시작하는 두 사람의 대화로 바꿨다. 11-02 관문 조건(☒ 대신 「아니요」 손글씨 · 「하나라도 '예'면 그때 결제」 한 줄 · 첫 2초는 실제 결제 화면 1인칭 · 빵집 사장 재연 빼기)은 그대로 지킨다. 장부의 「값은 영상에 넣지 않고 캡션에」는 바꿨다 — 장면 심사가 세 편 내리 「손해가 안 보인다」고 짚어(B23) 실제 화면의 ₩29,000과 1년 값 하나는 영상에 둔다.
 
-## 판정
+## v2 · 화면 결(11-03 밤) — 지금 올리는 판
+
+> 유호님 11-03 밤: 예약돼 있던 이 편과 B23을 보시고 「최악 수준 · 누가 봐도 AI 슬롭」 → 예약 취소 → 「지금 새로 적용해서 시안 만들어줄래? 제작까지 해서 오늘 업로드까지」. 같은 말 · 소리 · 판 조각에 겉만 [장부 「화면 결」](../기획장부/synkbrief.md#screen-look-20261103)로 다시 입혔다(`remotion/src/FilmV2.tsx` 컴포지션 b24v2 · `합성/판들_v2.py` → `remotion/public/plate2`). 옛 판 영상 · 표지는 `게시/옛판_v1/`.
+
+- **뺀 것:** 번호 동그라미 · 노란 「아니요」 메모 · 초록 띠 「셋 다 아니요 = 무료로 충분」 · 빨간 상자 「1년이면 34만 8천 원」 · 회색 꼬리표 · 흰 말풍선 · 판 안 빨간 동그라미 · 노랑/초록 형광.
+- **넣은 것:** 판을 320px 내리고 위는 같은 장면을 뒤집어 흐리게 · 위 그늘 · 왼쪽 위 큰 글자(SUIT · 동료 흰 · 나 회색) · 줄 단위 올림 · 컷이 1.035배에서 내려앉음 · 버터는 「34만 8천 원」 한 곳 · 「질문 1 / 3」 작은 줄 · 짚는 줄은 그 줄 밖을 어둡게 · 마침표 없음 · 질문마다 동료 컷 거리를 바꿈.
+- **맹검 미학 심사(Fable 둘, 순서 바꿈, 첫 렌더 장면 열 장):** 둘 다 새 판 — 세련됨 4 대 2, 옛 판 「AI 슬롭 예」 · 새 판 「아니요(약한 흔적: 같은 정면 컷 반복 · 위 그늘 짙음)」, 피드 멈춤 대 넘김. 같이 짚은 것(그늘 · 결제 화면 너무 어두움 · 작은 표시 제각각 · 같은 컷 반복)을 고쳤다.
+- **이해 시험(sonnet · haiku · GPT 구독):** v2-1 4 · 3 · 4 — haiku · GPT가 「한도가 무엇의 한도」를 같이 짚음 → 질문 1 아래 「파일 · 사진 · 음성은 쓰는 양에 한도가 있어요」(도움말 원문 출처 줄). v2-2 4 · 3 · 4 — sonnet · haiku가 「무료도 무제한」과 화면 「제한적」이 엇갈림을 같이 짚음 → 그 말 아래 「글로 묻기 무제한 / 파일 · 사진 · 음성 한도 있음」. **v2-3 4 · 4 · 4 · 끝까지 둘(GPT 20초 — 답을 들은 뒤) · 첫 3초 계속 봄 셋 · 저장 1 · 공유 2 · 달라 보임 셋, 두 시험관이 같이 막힌 낱말 없음 → 통과.** 볼 이유(Opus, v2-1) 이야기 · 3 · 아님 — 「8~16초 같은 정면 얼굴」(거리 바꿈으로 고침).
+- **판정: 완성** — 장면 심사(둘째 판 통과) · 이해 시험 v2-3 통과 · 맹검 미학 통과. 올리기 전 검사 고칠 것 0(확인할 것 7 — 실제 화면 속 앱 글자 · 원본과 다르게 둔 칸 수 · 끝 화면 1.5초). 남은 약점: 재미 3, 14초 설정 목록 칸의 작은 글자.
+
+## 판정(v1 · 11-03 07시 회차)
 
 - **완성(관문 못 넘음 — 이해 시험 ④ 세 시험관이 「한도」를 같이 짚음)** — 「한 장면 먼저」 주 관문(장면 심사)은 둘째 판에서 넘었고(멈춤 · 볼 이유 3), 보조 관문 이해 시험은 마지막 측정(v9)에서 답 1이 셋 다 맞고 이해 4 · 4 · 4 · 끝까지 둘(GPT는 21.9초, 결론 뒤) · 첫 3초 계속 봄 셋 · 저장 하나 · 공유 둘 · 달라 보임 셋이다. 다만 「한도가 무엇의 한도인지」를 세 시험관이 같이 짚었다. 그 뒤 꼬리표를 키우고 말을 「글로만 묻는 건」으로 고쳤지만 **이 마지막 판은 다시 재지 않았다**(여덟 판 쟀다). 제작 절차 「매일 한 편」 2대로 가장 나은 판을 올린다.
 - 볼 이유(Opus) 일곱 번 다 **이야기 · 3 · 슬롭 아님**. 재미는 판마다 3(v8 haiku만 2). 남은 약점: 「눈에 박히는 비싼 한 장면은 없다」 · 머그 든 정면 컷이 되풀이된다 · 16.8초에 결론이 난 뒤 요금표 칸이 힘이 빠진다.

diff --git a/docs/마케팅/기획장부/제작절차.md b/docs/마케팅/기획장부/제작절차.md
@@ -71,6 +71,8 @@
 
 ## synkbrief · yuhobuilds 편(10-27, 10-28 고침)
 
+> **화면 결(11-03 — 두 계정 모두):** 겉은 장부 머리말 「화면 결」([yuhobuilds](yuhobuilds.md#presenter-look-20261103) · [synkbrief](synkbrief.md#screen-look-20261103))대로다 — 원래 장면 그대로 · 위 그늘 위 큰 글자가 곧 말 · 검정 · 흰 + 버터 한 곳 · SUIT 하나, 색 꼬리표 · 스티커 · 번호 동그라미 · 색 띠 · 색 상자 · 말풍선을 쓰지 않는다. 보이거나 걸기 전 맹검 미학 심사(장부 머리말)를 넘어야 한다 — 이해 시험 · 장면 심사 · 사실 검수 · 올리기 전 검사는 「싸 보이나」를 보지 않는다(11-03 B23 · B24 「누가 봐도 AI 슬롭」이 그 관문을 다 거쳐 예약까지 갔다).
+
 10-24~27 두 브랜드는 열 편 넘게 이해 시험을 넘지 못했고, 넘은 편은 B1 「AI한테 이렇게 묻지 마세요」와 Y5 「고치는 한 줄」 — 둘 다 **전후 한 장면 + 복사해 쓸 한 줄**이었다([이해 시험 기록](이해시험_기록.md)). 떨어진 편은 무슨 말인지는 전해졌지만 한 편에 도구 · 설정 · 주의를 다 담아 8~16초에 설명이 몰렸고, 실제 화면 녹화는 글자가 작았다. 기준(아래 「시험」)은 그대로 두고 만드는 방식을 바꾼다 — 유호님 10-27 「네 가지 다 제작 절차와 synkbrief · yuhobuilds 장부에 넣어 줘」. 다시 살리기(0 ①)도 이 넷대로 만든다. 다만 10-28 점검에서 이 꼴을 모든 편에 의무로 걸자 두 브랜드가 같은 「한 줄」 편을 찍어 냈고(B1 72시간 인스타 1.1배 · 유튜브 1.3배, 좋아요 0), 그래서 「한 줄」은 따라 할 것의 한 꼴로만 둔다. 10-28부터 아래 넷은 오마주(위) 원본의 뼈대 안에서 지킨다 — 원본의 결과 칸 자리에 우리 실제 결과 화면을 두고, 칸 수 · 박자는 원본을 따른다. **yuhobuilds는 모든 편이 「오마주 형식 × 유호님 실화」다**(유호님 10-28 — 따라 할 팁만 있는 편은 synkbrief 몫이라 두 계정이 겹치지 않는다, 실화 창고 · 얼굴 · 목소리는 [yuhobuilds 장부](yuhobuilds.md) 머리말). 그 실화는 **유호님이 실제로 만든 것 + 그대로 가져갈 파일**이고 시청자도 겪는 문제를 푼 것만이다(10-28 밤 유호님 「그렇게 바꿔」 — 장부 머리말 「소재」. 같은 밤 줄였던 주 3편은 10-29 「매일 올라가야하는데」로 되돌려 매일이다). **11-02부터 yuhobuilds 영상은 유호 진행자 + 적극적 모션이 기본 꼴이다**(유호님 「이 제작방식을 기억해줘 yuhobuilds 앞으로 이렇게 만들게.」 — [만족 사례 S42](../제작양식/만족사례_장부.md#yuhobuilds-presenter-motion-20261102)). 진행자는 원본에서 사람이 말하는 칸을 맡고 결과 칸은 그대로 실제 화면이다. 얼굴 · 진행컷 · 목소리 · 합성과 매 편 확인할 틀 문제는 장부 머리말 「얼굴 · 목소리」 · 「진행자 형식과 오마주 · 실제 화면 합치기」.
 
 1. **결과 화면 먼저** — 기획 열 칸을 쓰기 전에 그 결과가 실제로 나오는 화면(전 · 후)을 먼저 찍어 편 폴더 `시안/`에 둔다. 안 나오면(AI가 다 맞게 해서 틀린 장면이 없는 등) 장부 줄을 「예비(결과 화면이 안 나옴)」로 돌리고 「순서」 0의 다음 후보로 간다 — 그 칸은 비우지 않는다(위 「매일 한 편」). 한 문장에는 시청자가 그대로 따라 할 **것 하나**(복사해 쓸 요청문 · 설정 한 곳 · 고르는 기준 · 확인하는 법)가 들어 있어야 하고, 없으면 예비다.

diff --git a/docs/마케팅/synkbrief_요금제질문셋_20261103/게시/README.md b/docs/마케팅/synkbrief_요금제질문셋_20261103/게시/README.md
@@ -1,4 +1,4 @@
-# 게시 묶음 — synkbrief 「AI 유료 결제 전에 질문 셋」 (2026-11-03 제작 · 슬롯 11-07)
+# 게시 묶음 — synkbrief 「AI 유료 결제 전에 질문 셋」 (2026-11-03 제작 · 슬롯 11-06)
 
 > 게시(올리기 · 예약 · 공개)는 14시 게시 작업이 자체검수를 거쳐 한 곳씩 한다. 이 폴더는 올릴 파일과 글만 둔다. 저장은 승인이 아니다.
 > 「한 장면 먼저」 일곱째 편 — 판정은 [기획.md](../기획.md) 「판정」. 올라가는 글의 정본은 판마다 `원고.json`이고 이 파일은 사람이 읽는 판이다.
@@ -12,7 +12,7 @@
 | 틱톡 @synkbrief(`synkbrief-tiktok`) | 같은 영상 | [03-synkbrief-tiktok/원고.json](03-synkbrief-tiktok/원고.json) |
 | SYNK SHIFT 네이버 블로그(`shift-naverblog`) | — | [blog/원고.md](blog/원고.md)(그림 셋 · 영상 뒤 21:10) |
 
-- 슬롯: 2026-11-07(토) 21:00 KST(세 판 같은 시각) · 블로그 21:10. AI 표시 켬(동료 · 손 · 점심이 AI). 표지 `표지.jpg`(0.6초 — ₩29,000 위 엄지와 「AI 유료 결제 1초 전」).
+- 슬롯: 2026-11-06(금) 21:00 KST(세 판 같은 시각) · 블로그 21:10. AI 표시 켬(동료 · 손 · 점심이 AI). 표지 `표지.jpg`(0.6초 — ₩29,000 위 엄지와 「AI 유료 결제 1초 전」).
 - 영상: 28.75초 · 1080×1920 · −14.5 LUFS. 끝 말 「그 돈으로 점심이나 사.」 — 댓글 · DM · 고정 댓글을 가리키지 않아 세 판이 같은 영상이다.
 - 한 문장: 한도 알림 · 파일 올리기 · 긴 문서, 셋 다 아니면 무료로 충분.
 - 따라 할 것(캡션 · 고정 댓글): 결제 전에 질문 셋. 공식 화면에서 읽은 값 · 다른 AI의 무료 한도 · 단서는 캡션에.

diff --git a/docs/_ops/트랙.md b/docs/_ops/트랙.md
@@ -18,6 +18,7 @@
 ## SNS 2주 시험 조기 판정 — 2026-11-02
 
 - **B23·B24 예약 취소(11-03).** 인스타그램·유튜브·틱톡·네이버 각 2건의 취소를 확인하고 두 편의 재등록을 중지했다. [41초 편 게시 결과](../마케팅/synkbrief_셋째줄그대로_20261102/게시/게시결과.json) · [29초 편 게시 결과](../마케팅/synkbrief_요금제질문셋_20261103/게시/게시결과.json).
+- **B24 v2 화면 결로 재제작(11-03 밤) → 11-06(금) 21:00 칸.** [기록](../마케팅/synkbrief_요금제질문셋_20261103/기획.md) 「v2」. 남은 일: 11-04 「목소리 전화」 · 11-05 「안내문 한 줄」(옛 겉) 처리 · B23 재제작 · 11-07 칸은 07시 회차가 새 결로.
 
 - [오늘 결정·근거·후속 조건](../마케팅/2주시험_조기판정_20261102.md). 11-07 날짜 대기 해제·11-03 LAB 기존 워크플로우 유지 정정 반영. LAB 제작 변경 제안은 철회하고 성과 분석만 남김. 남은 일은 새 편 72시간 확인, 국가별 현지화 판의 실제 제작·게시 연결, 사용자 요청에 따라 맨 마지막에 할 틱톡 휴대폰 검사다.
 

diff --git a/docs/마케팅/synkbrief_요금제질문셋_20261103/게시/blog/원고.md b/docs/마케팅/synkbrief_요금제질문셋_20261103/게시/blog/원고.md
@@ -2,7 +2,7 @@
 
 > B24(제작 절차 「한 장면 먼저」 일곱째 편). 블로그는 영상이 나간 뒤에만(장부 머리말).
 >
-> 올릴 곳: blog.naver.com/synkshift(`shift-naverblog`) · 슬롯 2026-11-07(토) 21:10 KST(영상 뒤 10분, 영상이 밀리면 같이 민다). 게시 작업이 Aside로 넣어 예약 발행하고, 막히면 유호님 붙여넣기 판.
+> 올릴 곳: blog.naver.com/synkshift(`shift-naverblog`) · 슬롯 2026-11-06(금) 21:10 KST(영상 뒤 10분, 영상이 밀리면 같이 민다). 게시 작업이 Aside로 넣어 예약 발행하고, 막히면 유호님 붙여넣기 판.
 > 그림: `01_Plus_실제화면.jpg`(ChatGPT 가격 쪽 Plus 칸, 2026-11-03) · `02_무료_실제화면.jpg`(같은 쪽 Free 칸) · `03_점심_재연.jpg`(AI로 만든 재연).
 > 카테고리는 지난 synkbrief 활용 글과 같은 곳(없으면 「AI 활용」). 공개 범위 전체 공개, 댓글 허용. 티스토리판은 만들지 않는다(장부 머리말).
 
